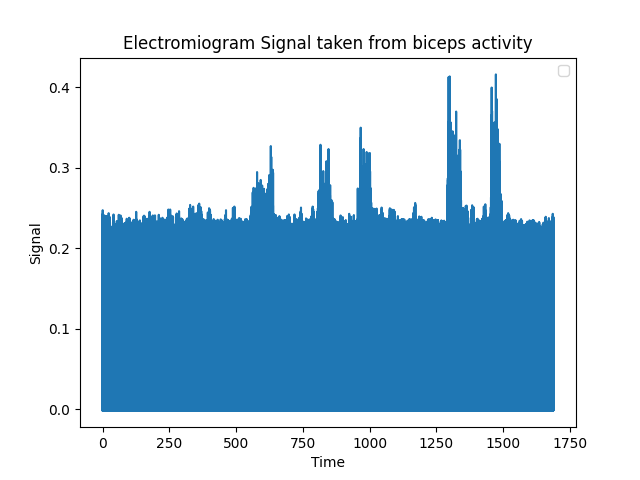
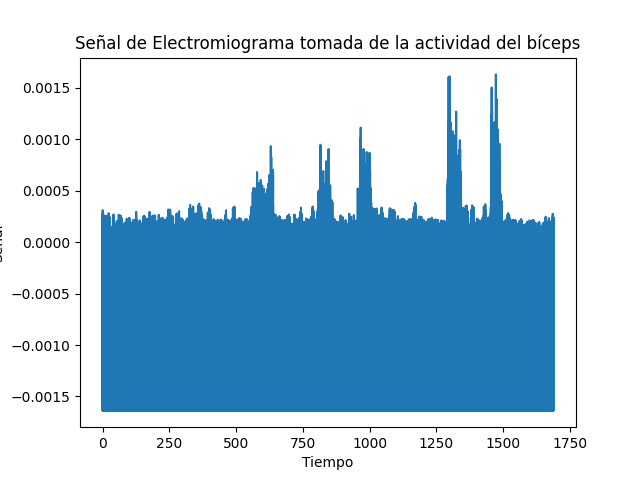
AJUSTESFINALES

diff --git a/ISB/Laboratorio 3 - EMG en BITalino/Ploteo_s2.py b/ISB/Laboratorio 3 - EMG en BITalino/Ploteo_s2.py
@@ -1,29 +1,32 @@
-
 import re
-with open('emg2.txt', 'r') as file:
+import matplotlib.pyplot as plt
+
+# Abrir el archivo emg1.txt para leerlo
+with open('emg1.txt', 'r') as file:
     # Leer todo el contenido del archivo
     texto = file.read()
 
-# Utilizando expresiones regulares para extraer la sexta columna de números
-columna_sexta = re.findall(r'\b\d+\b', texto.split("# EndOfHeader")[1])
-Signal2 = []
-# Imprimir la sexta columna de números
-k = 10
-for valor in columna_sexta:
-    Signal2.append((float(valor)/(2^k)-1/2)*3.3/1009)
-n = [i for i in range(0,len(Signal2))]
-Ts = 1/1000
-time2 = [i*Ts for i in n]
-print(len(time2))
-print(len(Signal2))
-import matplotlib.pyplot as plt
+# Utilizando expresiones regulares para extraer la séptima columna de números
+columna_septima = re.findall(r'\b\d+\b', texto.split("# EndOfHeader")[1])
 
-plt.plot(time2, Signal2)
+# Procesamiento de los valores de la séptima columna
+Signal = []
+k = 10
+for valor in columna_septima:
+    Signal.append((float(valor)/(2**k)-1/2)*3.3/1009)
+
+# Creación de una lista de tiempos
+n = [i for i in range(0, len(Signal))]
+Ts = 1/1000
+time = [i * Ts for i in n]
+
+# Graficar la señal
+plt.plot(time, Signal)
+
 # Añadir etiquetas y título
-plt.xlabel('Time')
-plt.ylabel('Signal')
-plt.title('Electromiogram Signal taken from "Pollicis brevis abductor" activity')
-# Mostrar leyenda
-plt.legend()
+plt.xlabel('Tiempo')
+plt.ylabel('Señal')
+plt.title('Señal de Electromiograma tomada de la actividad del Pollicis Abductor brevis')
 plt.savefig('scatter_plot2.png')
+# Mostrar gráfico
 plt.show()

diff --git a/ISB/Laboratorio 3 - EMG en BITalino/Ploteo_s1.py b/ISB/Laboratorio 3 - EMG en BITalino/Ploteo_s1.py
@@ -1,31 +1,33 @@
 import re
+import matplotlib.pyplot as plt
 
 # Abrir el archivo emg1.txt para leerlo
 with open('emg1.txt', 'r') as file:
     # Leer todo el contenido del archivo
     texto = file.read()
 
-# Utilizando expresiones regulares para extraer la sexta columna de números
-columna_sexta = re.findall(r'\b\d+\b', texto.split("# EndOfHeader")[1])
+# Utilizando expresiones regulares para extraer la séptima columna de números
+columna_septima = re.findall(r'\b\d+\b', texto.split("# EndOfHeader")[1])
+
+# Procesamiento de los valores de la séptima columna
 Signal = []
 k = 10
-# Imprimir la sexta columna de números
-for valor in columna_sexta:
-    Signal.append((float(valor)/(2^k)-1/2)*3.3/1009)
+for valor in columna_septima:
+    Signal.append((float(valor)/(2**k)-1/2)*3.3/1009)
 
-n = [i for i in range(0,len(Signal))]
+# Creación de una lista de tiempos
+n = [i for i in range(0, len(Signal))]
 Ts = 1/1000
-time = [i*Ts for i in n]
+time = [i * Ts for i in n]
 
-import matplotlib.pyplot as plt
-
+# Graficar la señal
 plt.plot(time, Signal)
+
 # Añadir etiquetas y título
-plt.xlabel('Time')
-plt.ylabel('Signal')
-plt.title('Electromiogram Signal taken from biceps activity')
-# Mostrar leyenda
-plt.legend()
+plt.xlabel('Tiempo')
+plt.ylabel('Señal')
+plt.title('Señal de Electromiograma tomada de la actividad del bíceps')
 plt.savefig('scatter_plot1.png')
+# Mostrar gráfico
 plt.show()
 

diff --git a/ISB/Laboratorio 3 - EMG en BITalino/Informe.md b/ISB/Laboratorio 3 - EMG en BITalino/Informe.md
@@ -165,7 +165,8 @@ plt.title('Electromiogram Signal taken from biceps activity')
 plt.legend()
 plt.savefig('scatter_plot1.png')
 plt.show()
-```. Ota
+```
+
 - Para el ploteo de la segunda señal adquirida, que refiere al EMG del músculo __abductor pollicis brevis__, se tiene el siguiente código: 
 (Archivo: Ploteo_s2.py)
 
